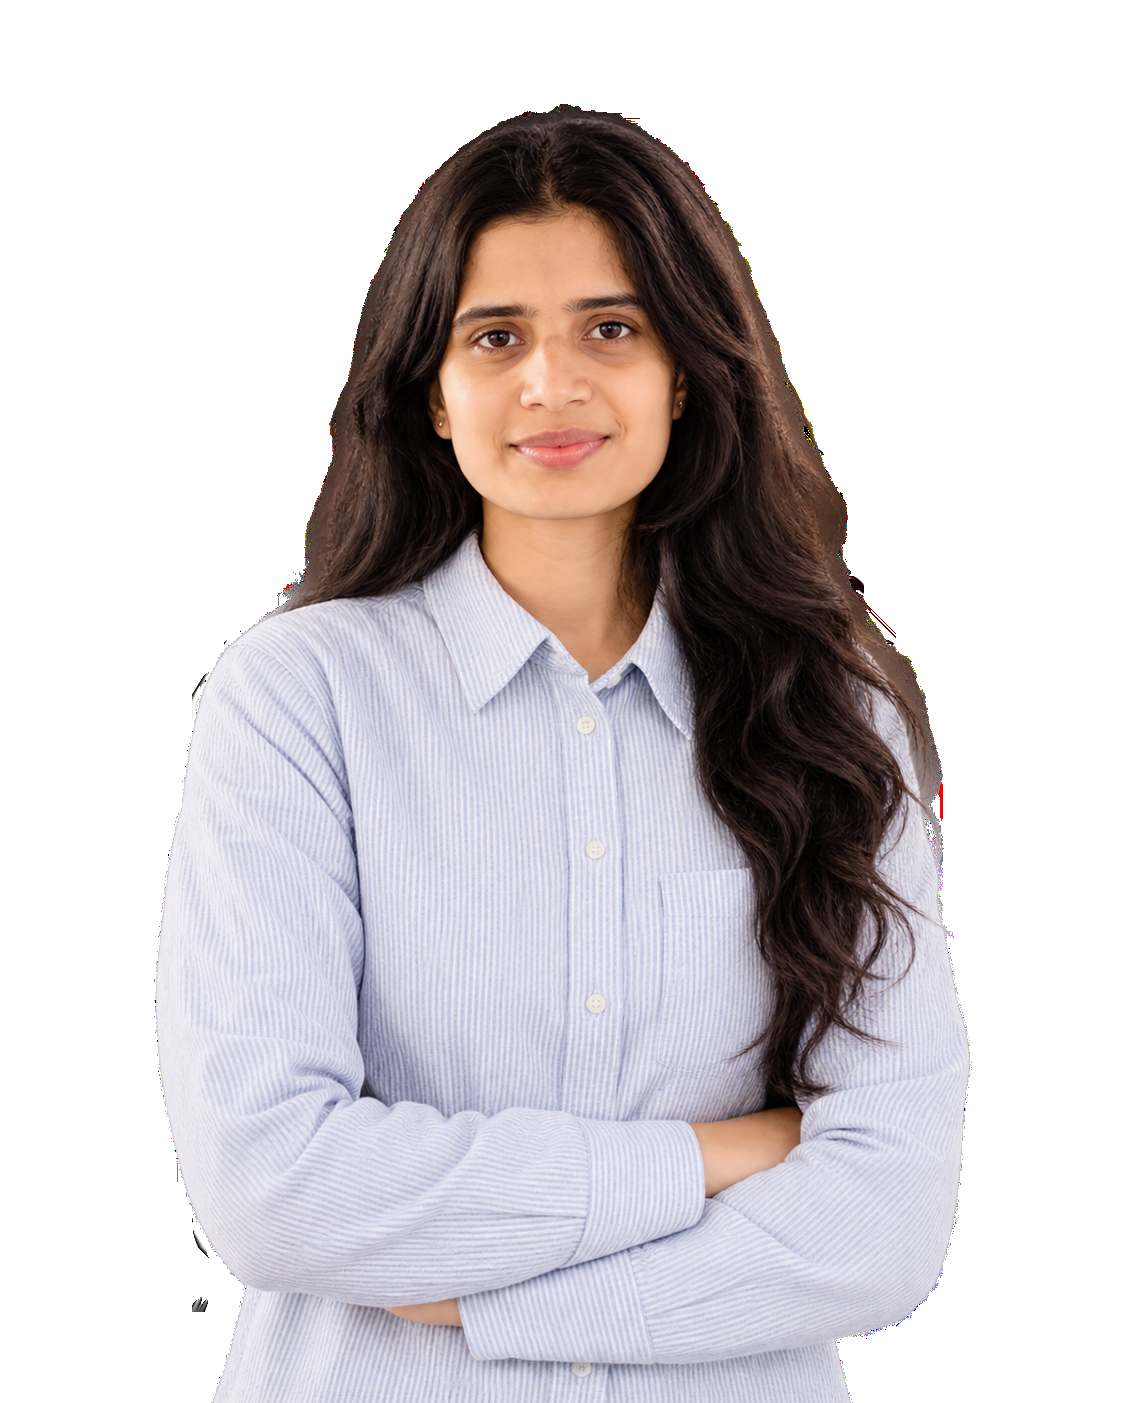
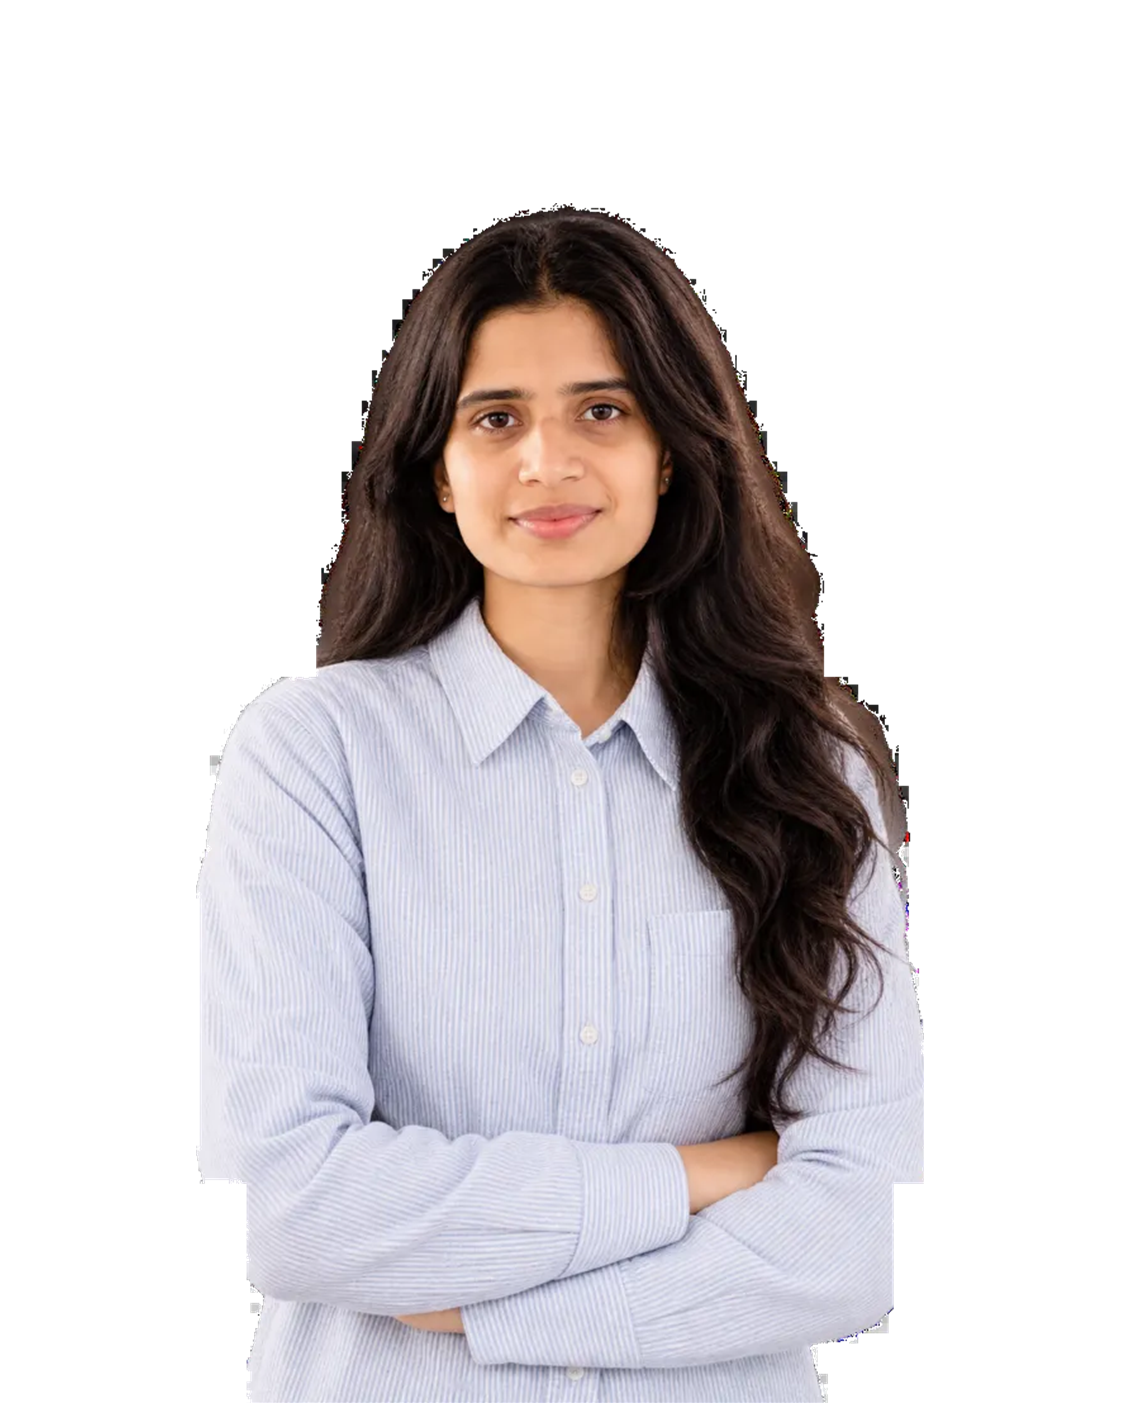
fix(hire-from-us): clean white border artifacts on Niharika cutout and update role to SEO Specialist

diff --git a/frontend-main/src/pages/HireFromUs.tsx b/frontend-main/src/pages/HireFromUs.tsx
@@ -62,7 +62,7 @@ export const CANDIDATES: Candidate[] = [
   {
     id: "niharika",
     name: "Niharika Yadav",
-    role: "Graphic Designer",
+    role: "SEO Specialist",
     image: "/student/niharika.png",
     imageFit: "object-contain object-bottom",
   },
